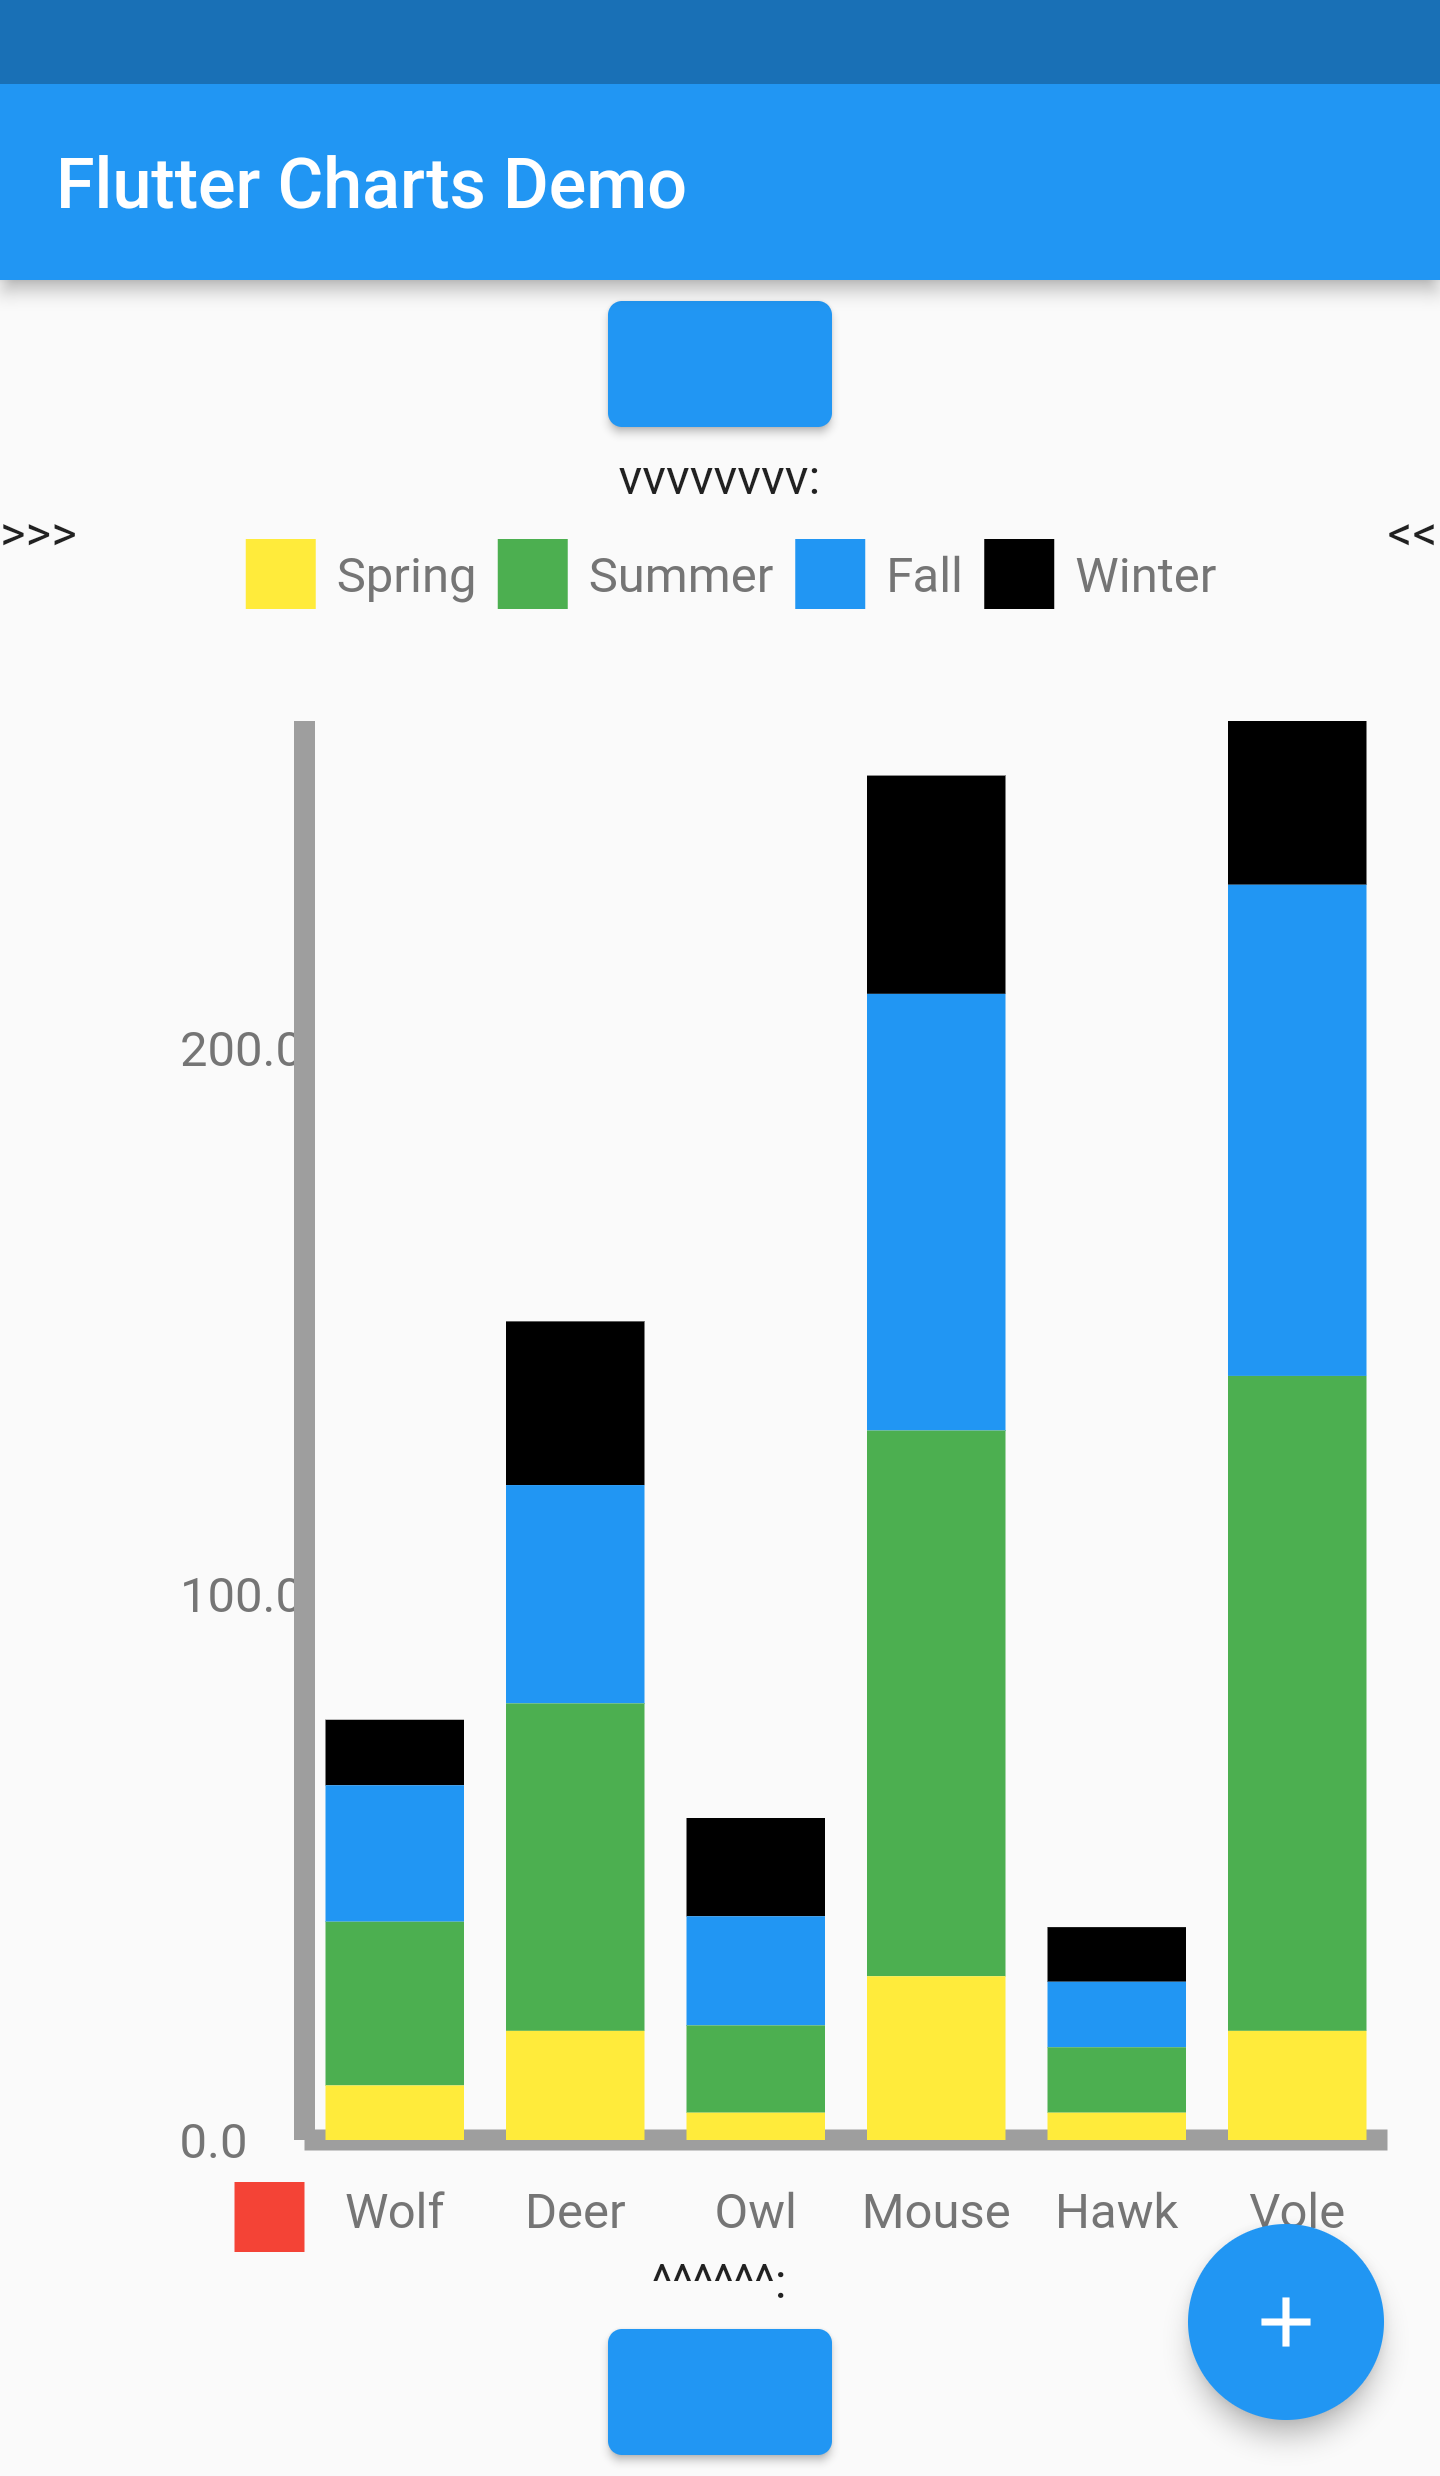
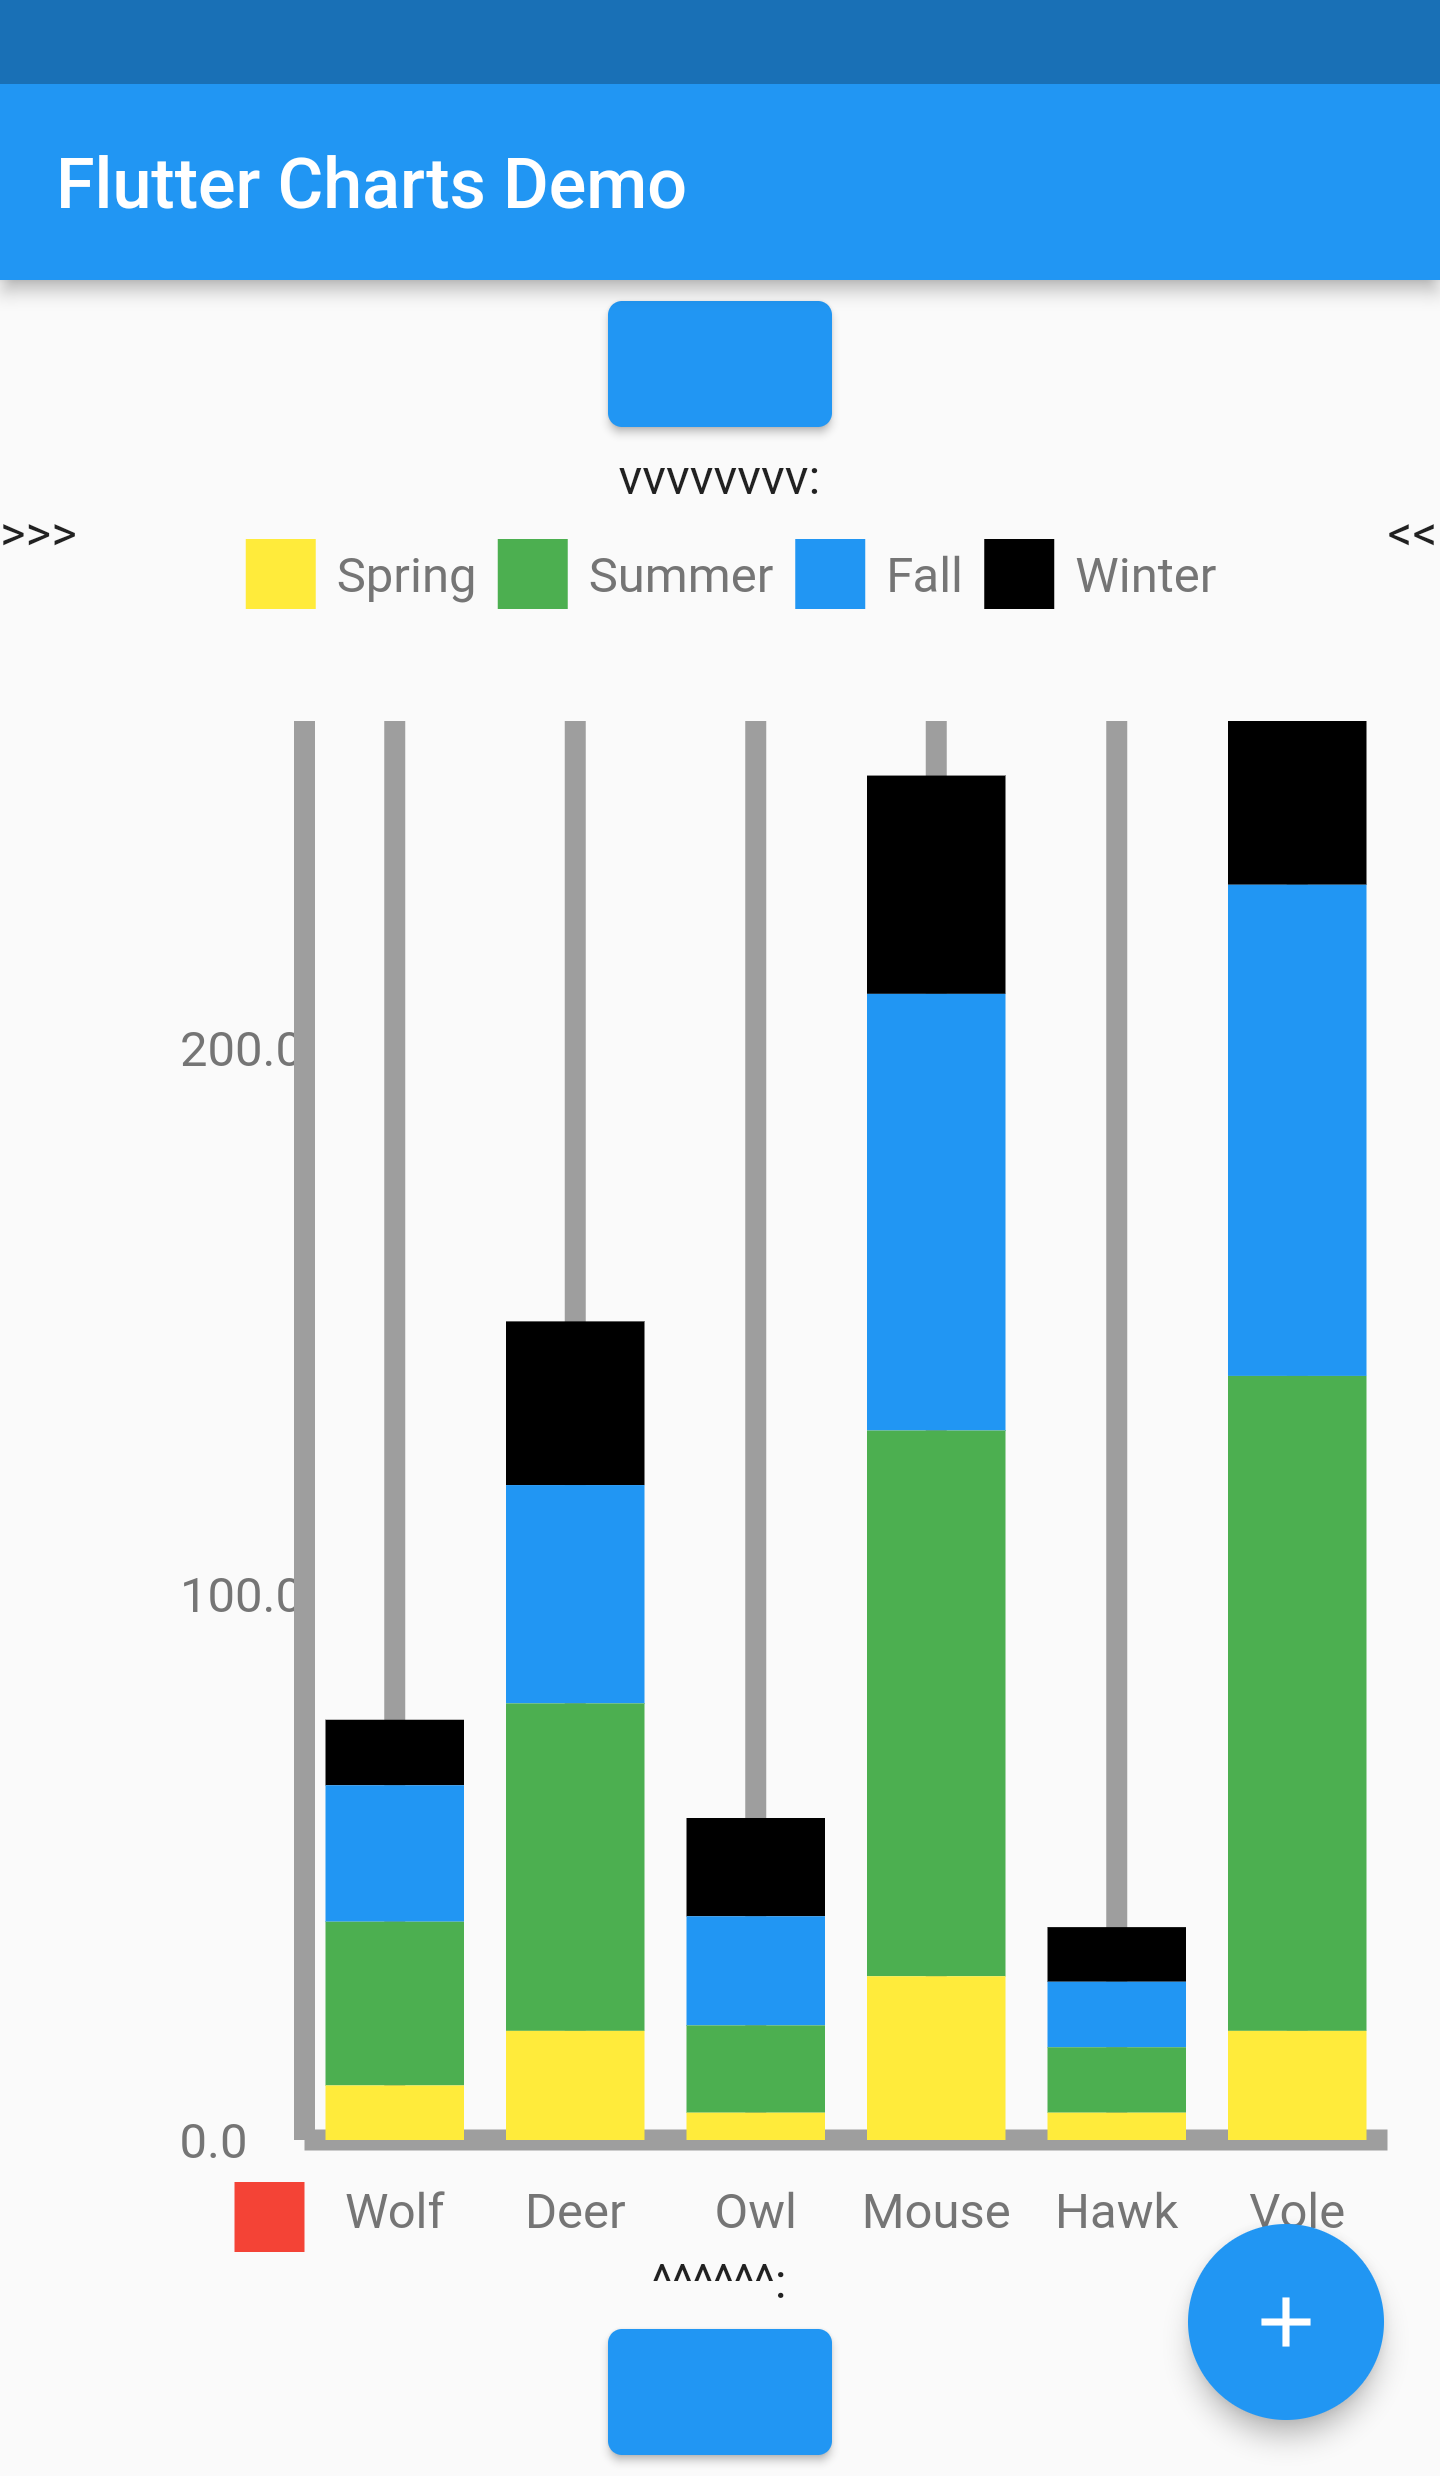
Progress: Adding TransposingGrid container.
This commit: _ChildrenOfGridMixin._externallyTickedAxisOrGridChildren : generalizations for input grid, before also adding output grid.

ATW (with input grid).

diff --git a/lib/src/chart/container/axis_and_grid_container.dart b/lib/src/chart/container/axis_and_grid_container.dart
@@ -103,27 +103,30 @@ class TransposingOutputAxisLine extends AxisLineContainer {
 ///
 /// The passed [rangeDescriptor] is used to iterate labels on which the ticked labels or grid lines are placed. // todo-01000 : the actual labelInfo is not used. Add some kind of iterator to range to replace it.
 mixin _AxisOrGridChildren {
-  List<BoxContainer> _externallyTickedAxisOrGridChildren(DataRangeTicksAndLabelsDescriptor rangeDescriptor);
+  List<BoxContainer> _externallyTickedAxisOrGridChildren(DataDependency dataDependency);
 }
 
 /// See also [_AxisOrGridChildren].
 mixin _ChildrenOfAxisMixin on TransposingAxisOrGrid implements _AxisOrGridChildren {
 
   @override
-  List<BoxContainer> _externallyTickedAxisOrGridChildren(DataRangeTicksAndLabelsDescriptor rangeDescriptor) => [
-    // Add all labels from generator as children. Labels were created and placed in [labelInfoList]
-    //   in the [DataRangeTicksAndLabelsDescriptor] constructor called in the  [ChartViewModel]  constructor,
-    //   where both input and output [DataRangeTicksAndLabelsDescriptor]s are created.
-    for (var labelInfo in rangeDescriptor.labelInfoList)
-      AxisLabelContainer(
-        chartViewModel: chartViewModel,
-        label: labelInfo.formattedLabel,
-        labelTiltMatrix: vector_math.Matrix2.identity(),
-        // No tilted labels in OutputAxisContainer
-        labelStyle: _labelStyle,
-      )
-  ];
+  List<BoxContainer> _externallyTickedAxisOrGridChildren(DataDependency dataDependency) {
+    DataRangeTicksAndLabelsDescriptor rangeDescriptor = chartViewModel.rangeDescriptorFor(dataDependency);
 
+    return [
+      // Add all labels from generator as children. Labels were created and placed in [labelInfoList]
+      //   in the [DataRangeTicksAndLabelsDescriptor] constructor called in the  [ChartViewModel]  constructor,
+      //   where both input and output [DataRangeTicksAndLabelsDescriptor]s are created.
+      for (var labelInfo in rangeDescriptor.labelInfoList)
+        AxisLabelContainer(
+          chartViewModel: chartViewModel,
+          label: labelInfo.formattedLabel,
+          labelTiltMatrix: vector_math.Matrix2.identity(),
+          // No tilted labels in OutputAxisContainer
+          labelStyle: _labelStyle,
+        )
+    ];
+  }
 }
 
 /// See also [_AxisOrGridChildren].
@@ -135,38 +138,18 @@ mixin _ChildrenOfGridMixin on TransposingAxisOrGrid implements _AxisOrGridChildr
   /// The passed [rangeDescriptor] must be the one in direction that iterates labels or grid lines.
   ///
   /// Important note:
-  ///   This method also needs the cross-descriptor, obtained by [TransposingAxisOrGrid.crossRangeDescriptor]
+  ///   This method also needs the cross-descriptor, obtained by [TransposingAxisOrGrid.crossRangeDescriptorOf]
   ///   from which it needs the start and end of the grid lines!
-/* todo-00-done : experimenting with this: For input grid, should be like TransposingOutputAxisLine
   @override
-  List<BoxContainer> _externallyTickedAxisOrGridChildren(DataRangeTicksAndLabelsDescriptor rangeDescriptor) {
-    DataRangeTicksAndLabelsDescriptor crossRangeDescriptor1 = crossRangeDescriptor(rangeDescriptor);
+  List<BoxContainer> _externallyTickedAxisOrGridChildren(DataDependency dataDependency) {
+    DataRangeTicksAndLabelsDescriptor rangeDescriptor = chartViewModel.rangeDescriptorFor(dataDependency);
+    DataRangeTicksAndLabelsDescriptor crossRangeDescriptor = crossRangeDescriptorOf(rangeDescriptor);
 
-    return [
-      // For each label, add a grid line in the external ticks center for line chart,
-      //   in the external ticks end for bar chart.
-      for (var labelInfo in rangeDescriptor.labelInfoList)
-        LineBetweenPointOffsetsContainer(
-          fromPointOffset: PointOffset(
-            // input value can (and must) be 0 ONLY with assumption that this is value inside a cross-direction layouter.
-            // so the whole TransposingInputGrid can only live in
-            inputValue: rangeDescriptor.dataRange.max, // works: 100, // rangeDescriptor.dataRange.zeroElseMin, // inputRangeDescriptor.dataRange.min,
-            outputValue: crossRangeDescriptor1.dataRange.min,
-          ),
-          toPointOffset: PointOffset(
-            inputValue: rangeDescriptor.dataRange.max, // works: 100, // rangeDescriptor.dataRange.zeroElseMin, // inputRangeDescriptor.dataRange.max,
-            outputValue: crossRangeDescriptor1.dataRange.max,
-          ),
-          linePaint: chartViewModel.chartOptions.dataContainerOptions.gridLinesPaint(),
-          chartViewModel: chartViewModel,
-        )
-    ];
-  }
-*/
+    // Note: NOW WE BUILD INPUT, SO rangeDescriptor == _inputRangeDescriptor
 
-  @override
-  List<BoxContainer> _externallyTickedAxisOrGridChildren(DataRangeTicksAndLabelsDescriptor rangeDescriptor) {
-    DataRangeTicksAndLabelsDescriptor crossRangeDescriptor1 = crossRangeDescriptor(rangeDescriptor);
+    // For the data dependency cross the   dependency lines we are building:
+    //   - line is always from min to max
+    // For the data dependency same as the dependency lines we are building, line is from min to
 
     return [
       // For each label, add a grid line in the external ticks center for line chart,
@@ -182,15 +165,15 @@ mixin _ChildrenOfGridMixin on TransposingAxisOrGrid implements _AxisOrGridChildr
         LineBetweenPointOffsetsContainer(
           fromPointOffset: PointOffset(
             inputValue: chartViewModel.chartOrientation == ChartOrientation.column
-                ? _inputRangeDescriptor.dataRange.min
-                : _inputRangeDescriptor.dataRange.max,
-            outputValue: _outputRangeDescriptor.dataRange.min, // works: crossRangeDescriptor1.dataRange.min,
+                ? rangeDescriptor.dataRange.min
+                : rangeDescriptor.dataRange.max,
+            outputValue: crossRangeDescriptor.dataRange.min, // works: crossRangeDescriptor.dataRange.min,
           ),
           toPointOffset: PointOffset(
             inputValue:  chartViewModel.chartOrientation == ChartOrientation.column
-                ? _inputRangeDescriptor.dataRange.min
-                : _inputRangeDescriptor.dataRange.max,
-            outputValue: _outputRangeDescriptor.dataRange.max, // works: crossRangeDescriptor1.dataRange.max,
+                ? rangeDescriptor.dataRange.min
+                : rangeDescriptor.dataRange.max,
+            outputValue: crossRangeDescriptor.dataRange.max, // works: crossRangeDescriptor.dataRange.max,
           ),
           linePaint: chartViewModel.chartOptions.dataContainerOptions.gridLinesPaint(),
           chartViewModel: chartViewModel,
@@ -240,7 +223,7 @@ mixin _InputAxisOrGridBuilderMixin on TransposingAxisOrGrid, _AxisOrGridChildren
           mainAxisExternalTicksLayoutDescriptor: _inputRangeDescriptor.asExternalTicksLayoutDescriptor(
             externalTickAtPosition: ExternalTickAtPosition.childCenter,
           ),
-          children: _externallyTickedAxisOrGridChildren(_inputRangeDescriptor),
+          children: _externallyTickedAxisOrGridChildren(DataDependency.inputData),
         ),
       ],
     );
@@ -270,7 +253,7 @@ mixin _OutputAxisOrGridBuilderMixin on TransposingAxisOrGrid, _AxisOrGridChildre
             mainAxisExternalTicksLayoutDescriptor: _outputRangeDescriptor.asExternalTicksLayoutDescriptor(
               externalTickAtPosition: ExternalTickAtPosition.childCenter,
             ),
-            children: _externallyTickedAxisOrGridChildren(_outputRangeDescriptor),
+            children: _externallyTickedAxisOrGridChildren(DataDependency.outputData),
           ),
         ]);
   }
@@ -309,7 +292,7 @@ abstract class TransposingAxisOrGrid extends container_common.ChartAreaContainer
   late final LabelStyle _labelStyle;
 
   /// Returns the descriptor of the 'other direction' axis.
-  DataRangeTicksAndLabelsDescriptor crossRangeDescriptor(DataRangeTicksAndLabelsDescriptor rangeDescriptor) {
+  DataRangeTicksAndLabelsDescriptor crossRangeDescriptorOf(DataRangeTicksAndLabelsDescriptor rangeDescriptor) {
     if (rangeDescriptor == _inputRangeDescriptor) {
       return _outputRangeDescriptor;
     }

diff --git a/lib/src/coded_layout/chart/axis_container.dart b/lib/src/coded_layout/chart/axis_container.dart
@@ -66,7 +66,7 @@ class OutputAxisContainerCL
   List<BoxContainer> Function(List<BoxContainer> p1, ChartPaddingGroup p2) directionWrapperAround;
 
   @override
-  DataRangeTicksAndLabelsDescriptor crossRangeDescriptor(DataRangeTicksAndLabelsDescriptor rangeDescriptor) =>
+  DataRangeTicksAndLabelsDescriptor crossRangeDescriptorOf(DataRangeTicksAndLabelsDescriptor rangeDescriptor) =>
       throw UnimplementedError();
 
   /// Overridden method creates this [OutputAxisContainerCL]'s hierarchy-children Y labels
@@ -255,7 +255,7 @@ class InputAxisContainerCL
   List<BoxContainer> Function(List<BoxContainer> p1, ChartPaddingGroup p2) directionWrapperAround;
 
   @override
-  DataRangeTicksAndLabelsDescriptor crossRangeDescriptor(DataRangeTicksAndLabelsDescriptor rangeDescriptor) =>
+  DataRangeTicksAndLabelsDescriptor crossRangeDescriptorOf(DataRangeTicksAndLabelsDescriptor rangeDescriptor) =>
       throw UnimplementedError();
 
   @override

diff --git a/lib/src/chart/container/data_container.dart b/lib/src/chart/container/data_container.dart
@@ -109,11 +109,11 @@ abstract class DataContainer extends container_common.ChartAreaContainer {
                 // The containers that show positive and negative bars or lines.
                 TransposingStackLayouter(
                   children: [
-/* todo-00-last : put back
+/* todo-00-last : put back */
                     TransposingCrossGrid(
                       chartViewModel: chartViewModel,
                     ),
-*/
+/* */
                     // InputAxisLine and OutputAxisLine could be part of the grid
                     TransposingInputAxisLine(
                       chartViewModel: chartViewModel,

diff --git a/lib/src/chart/view_model/view_model.dart b/lib/src/chart/view_model/view_model.dart
@@ -348,6 +348,15 @@ abstract class ChartViewModel extends Object with container_common.ChartBehavior
     required covariant ChartViewModel chartViewModel,
   });
 
+  DataRangeTicksAndLabelsDescriptor rangeDescriptorFor(DataDependency dataDependency) {
+    switch (dataDependency) {
+      case DataDependency.inputData:
+        return inputRangeDescriptor;
+      case DataDependency.outputData:
+        return outputRangeDescriptor;
+    }
+  }
+
   String _debugPrintBegin() {
     String isFirstStr = _isFirst ? '=== IS FIRST ===' : '=== IS SECOND ===';
 
